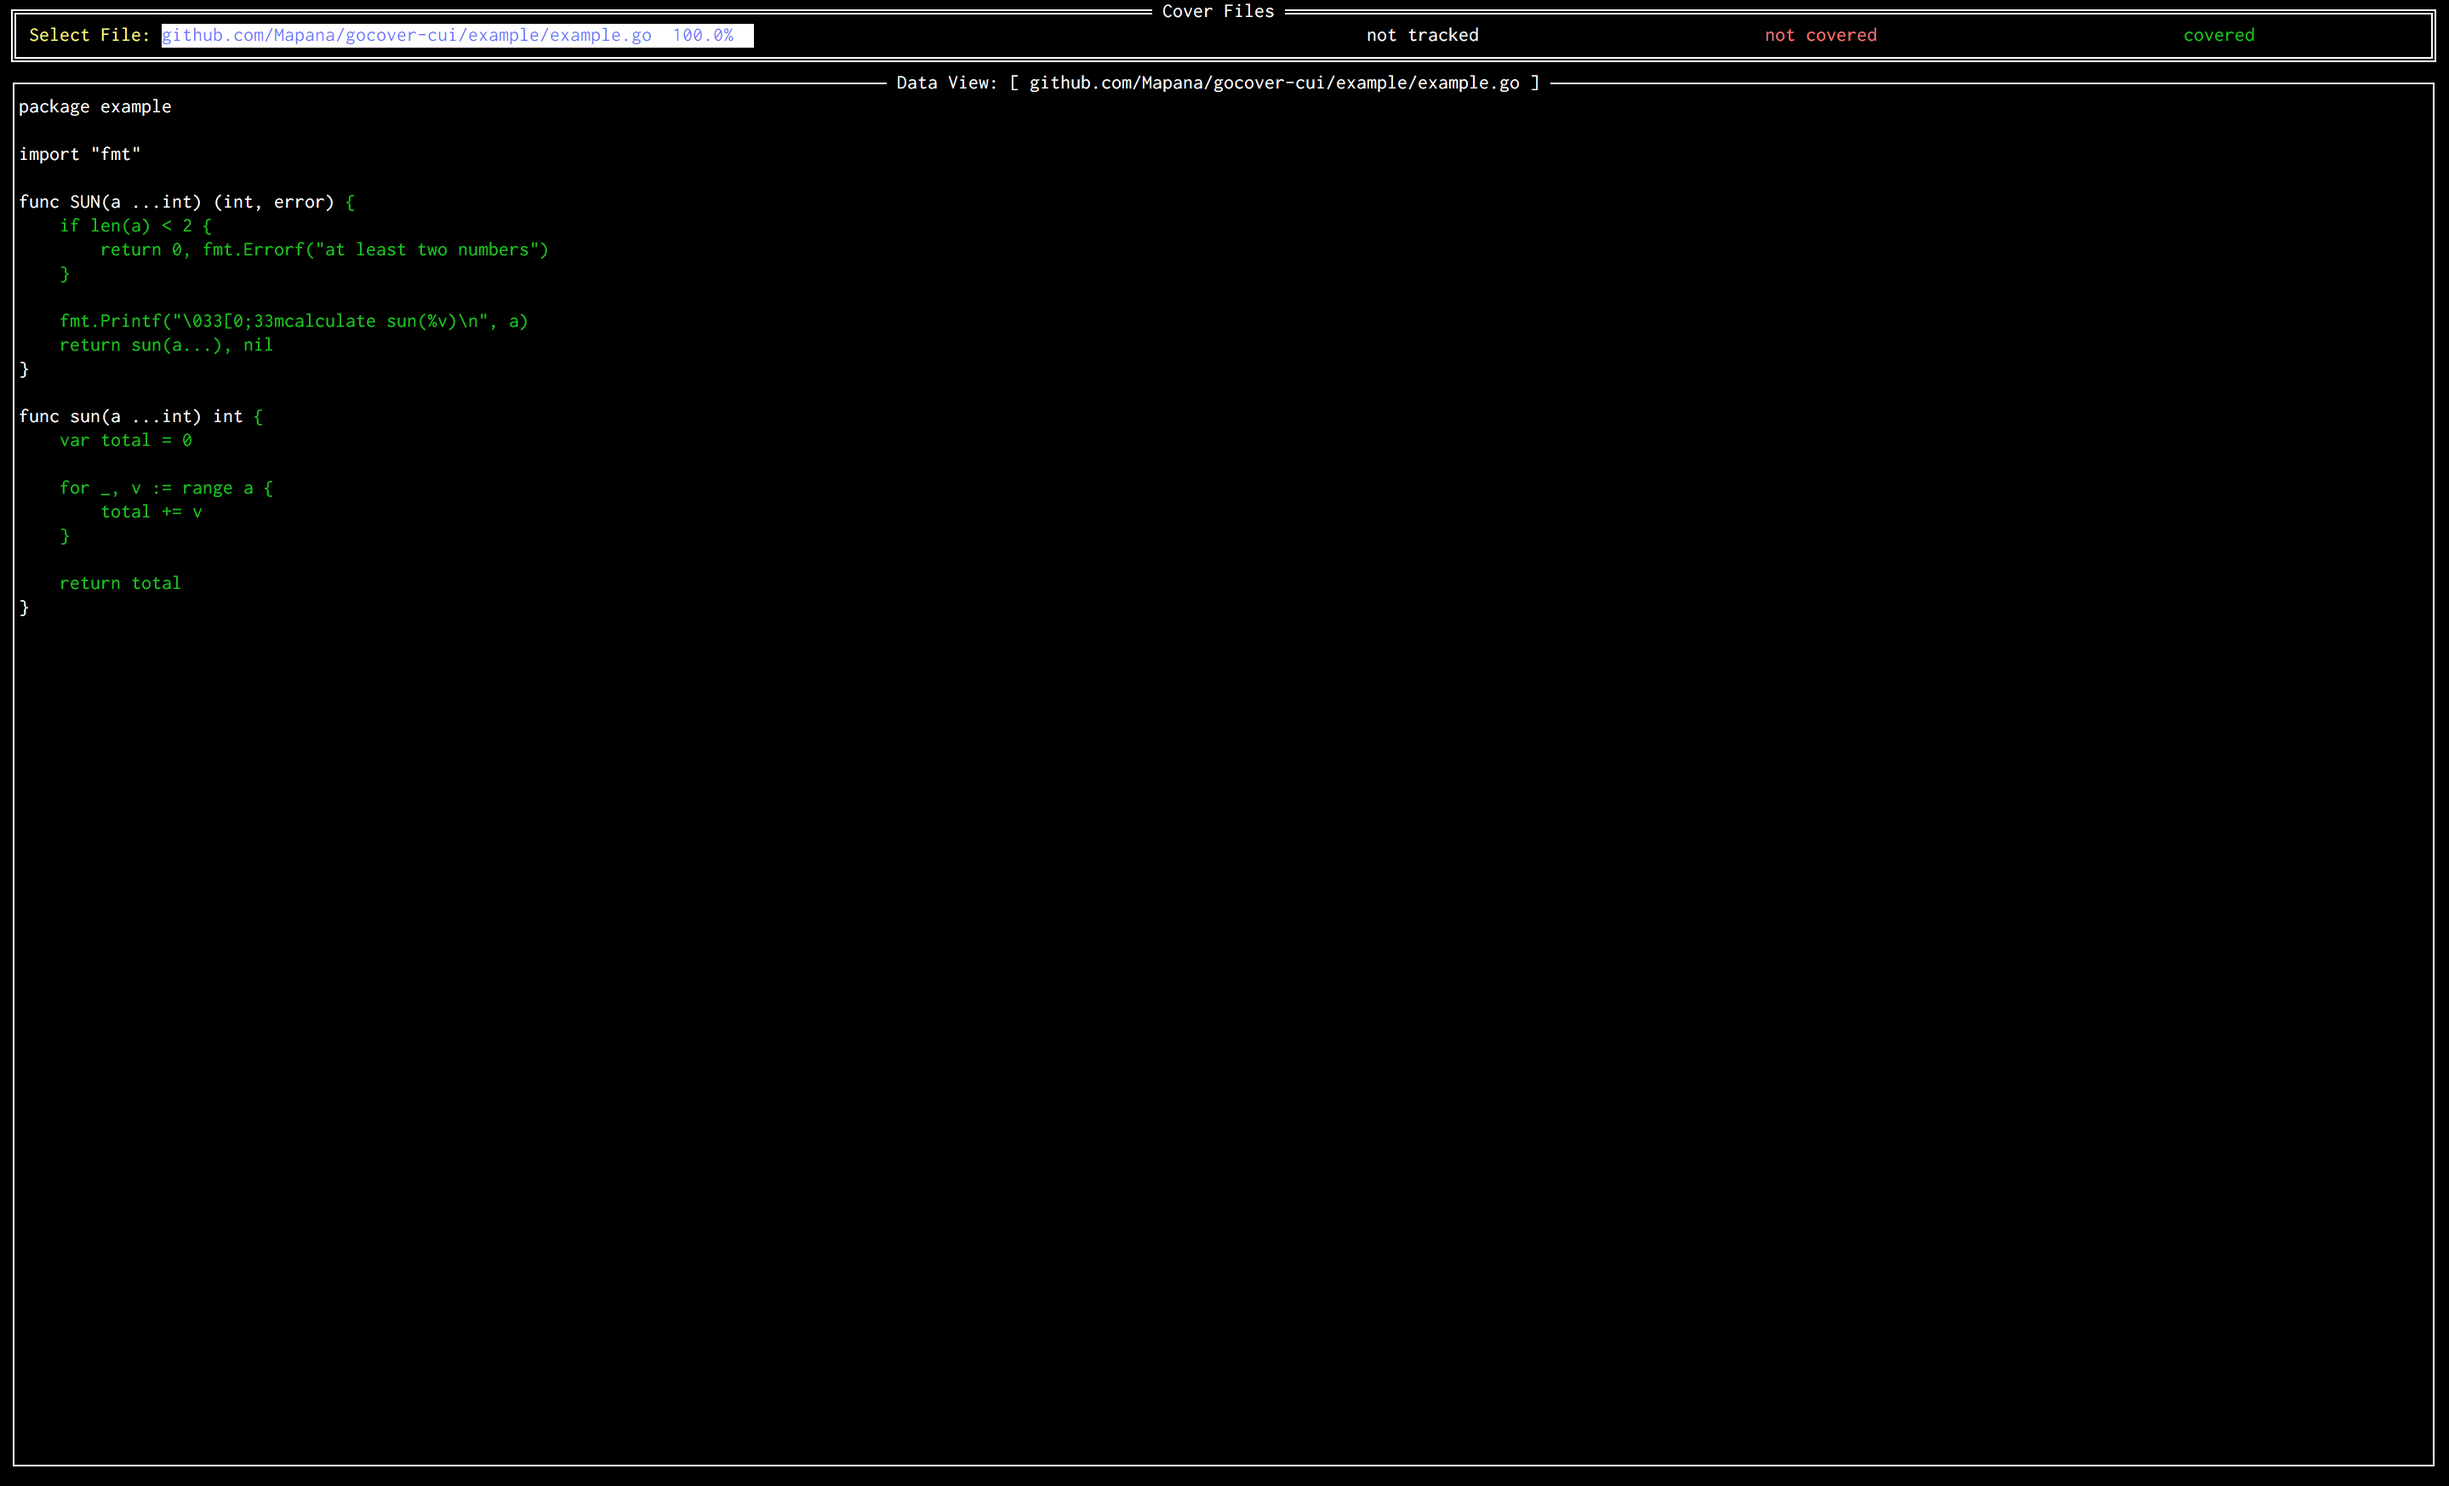
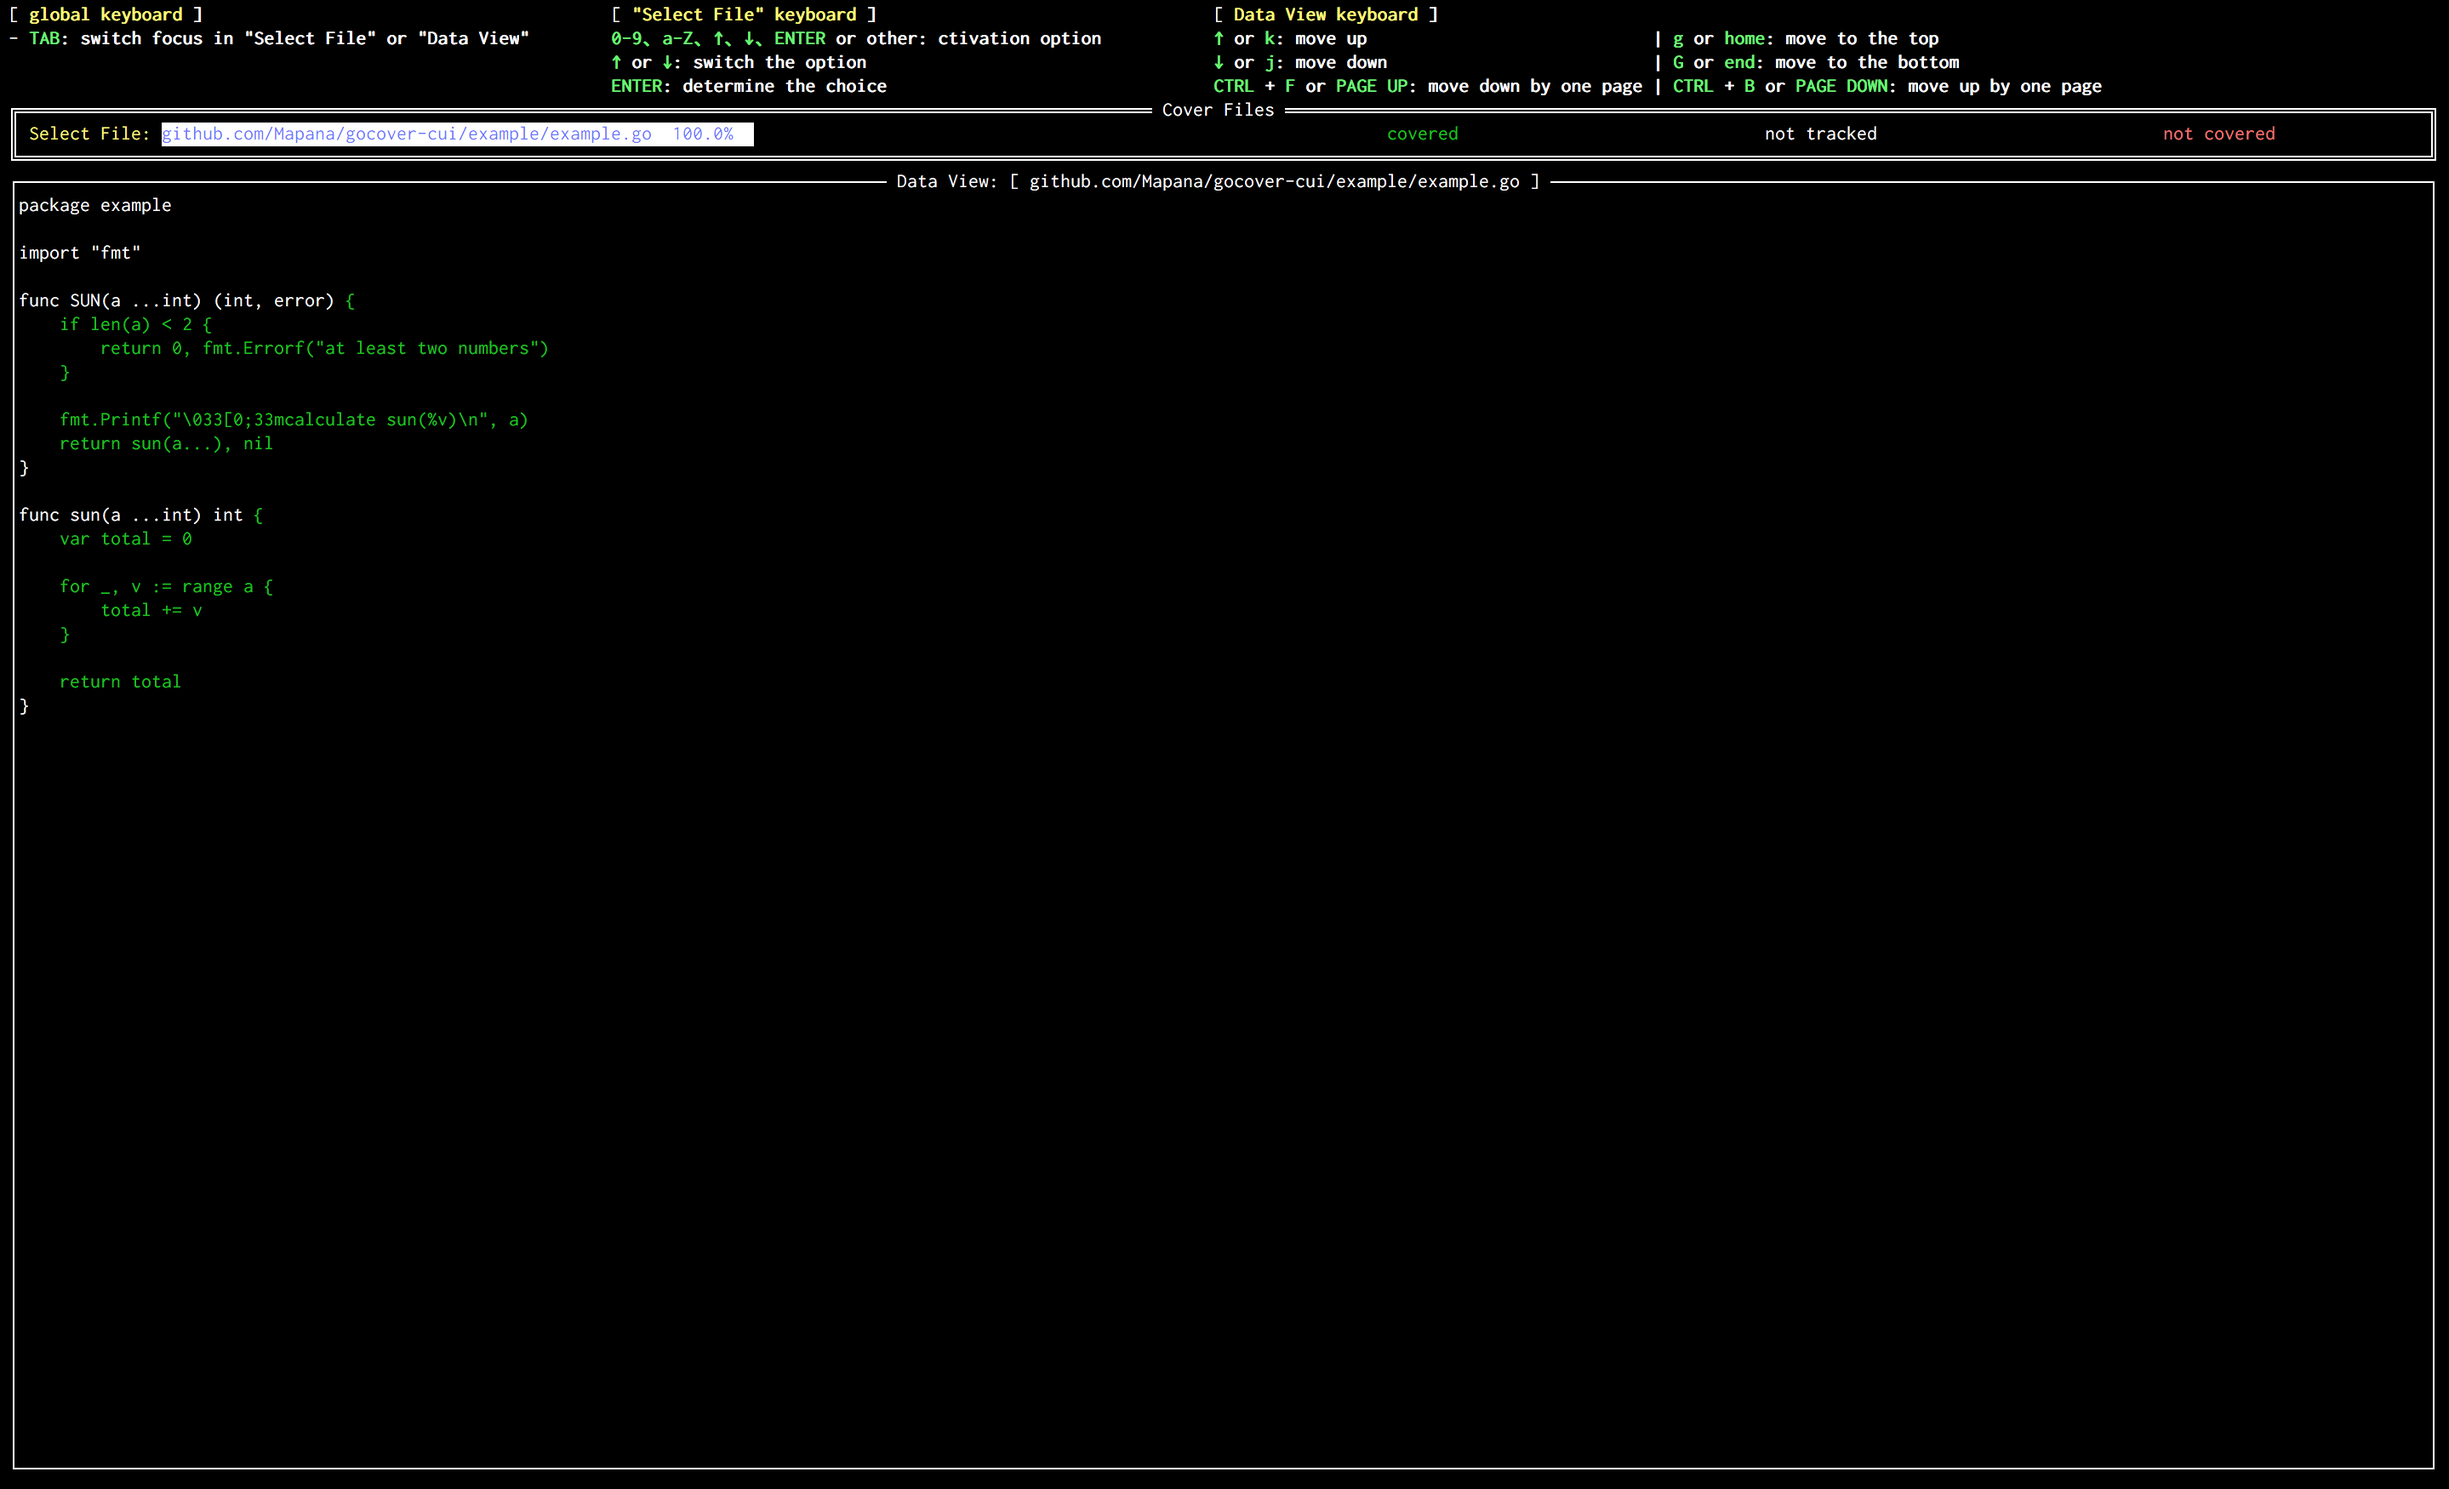
:checkered_flag: belonging to key help

diff --git a/README.md b/README.md
@@ -1,47 +1,14 @@
-# gocover-cui
+# gocover-cui - Hey Help
+This is a gocover-cui branch that provides key help at the terminal ui.
 
-Reference go tool cover -html=c.out -o coverage.html display it to the terminal
+Gocover introduction and getting started, please link to the [master](https://github.com/Mapana/gocover-cui)
 
-for example when using in docker, I can't display html, I can try to display the terminal UI.
-
-    gocover-cui -cui c.out
-
-## Install
-#### go get
-``` bash
-go get github.com/Mapana/gocover-cui
-```
-
-#### git
-``` bash
-git clone https://github.com/Mapana/gocover-cui.git
-cd gocover-cui
-go install
-```
-
-## Key Help
-branch and manuals are provided here
-- [branch](https://github.com/Mapana/gocover-cui/tree/key-help)
-- [manuals](https://github.com/Mapana/gocover-cui/wiki)
-
-## Example
-``` bash
-cd $GOPATH/src/github.com/Mapana/gocover-cui
-
-gocover-cui -cui=example/example_ls.out -log=example/example_ls.log # Can run -cui or -log separately
-
-gocover-cui -cui=example/example_hs.out -log=example/example_hs.log
-```
-
+## Picture collection
 #### Focus in `Cover Files`
-![image](https://github.com/Mapana/gocover-cui/blob/master/gocover-cui-1.png)
+![image](https://github.com/Mapana/gocover-cui/blob/key-help/gocover-cui-1.png)
 
 #### toggle option for `Cover Files`
-![image](https://github.com/Mapana/gocover-cui/blob/master/gocover-cui-2.png)
+![image](https://github.com/Mapana/gocover-cui/blob/key-help/gocover-cui-2.png)
 
 #### Focus in `Data View`
-![image](https://github.com/Mapana/gocover-cui/blob/master/gocover-cui-3.png)
-
-## Plan
-- [x] support log display
-- [x] add keyboard prompt help
+![image](https://github.com/Mapana/gocover-cui/blob/key-help/gocover-cui-3.png)
